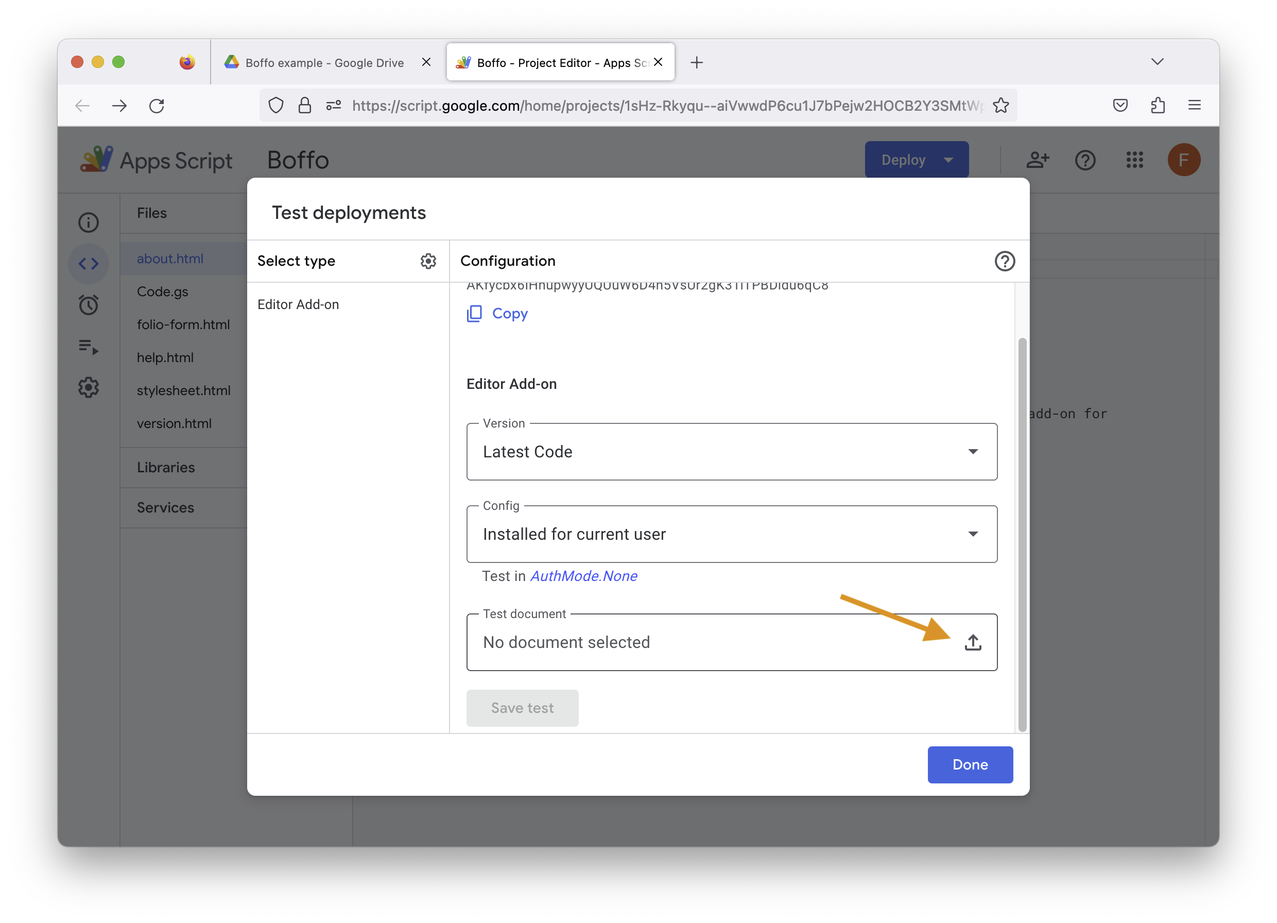
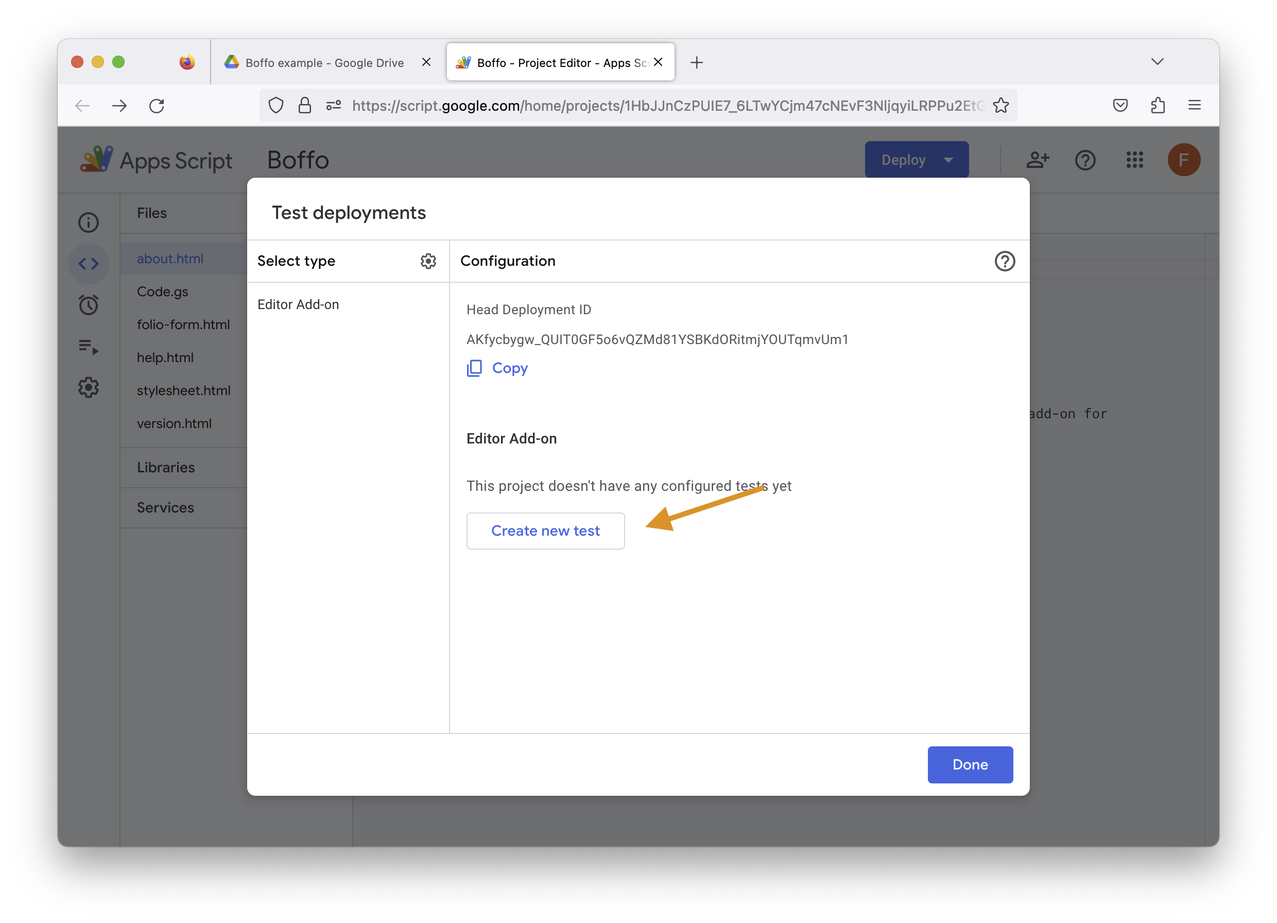
deploy: f5de7bc9aa3d3dc5b2ddb60697edf9038487bbd5

diff --git a/searchindex.js b/searchindex.js
@@ -1,1 +1,1 @@
-Search.setIndex({"docnames": ["colophon", "glossary", "index", "installation", "introduction", "usage"], "filenames": ["colophon.md", "glossary.md", "index.md", "installation.md", "introduction.md", "usage.md"], "titles": ["Colophon", "Glossary", "Boffo", "Installation", "Introduction", "Usage"], "terms": {"michael": 0, "hucka": 0, "wrote": 0, "boffo": [0, 1, 3, 4], "document": [0, 3], "us": [0, 1, 2, 5], "sphinx": 0, "gener": [0, 3, 5], "togeth": 0, "myst": 0, "flavor": 0, "markdown": 0, "The": [0, 1, 3, 5], "theme": 0, "i": [0, 1, 2, 3, 4, 5], "materi": [0, 1], "light": 0, "custom": 0, "googl": [0, 1, 2, 4, 5], "": [0, 3, 5], "atkinson": 0, "hyperleg": 0, "font": 0, "A": [0, 1], "github": [0, 1, 3], "action": 0, "take": [0, 1, 3], "care": [0, 3], "creat": [0, 2, 3, 4, 5], "format": 0, "version": [0, 3, 5], "host": 0, "io": 0, "http": 0, "caltechlibrari": 0, "output": 0, "can": [0, 1, 3, 5], "also": 0, "produc": 0, "manual": 0, "command": [0, 3, 5], "implement": 0, "makefil": 0, "locat": [0, 3], "doc": 0, "subdirectori": 0, "sourc": [0, 1, 2], "code": [0, 3], "repositori": [0, 3], "vector": 0, "artwork": 0, "start": [0, 3], "point": [0, 3], "logo": 0, "thi": [0, 1, 3, 5], "project": 0, "wa": [0, 3], "sunarto": 0, "hamizan": 0, "It": [0, 1, 2, 3, 4], "licens": 0, "under": [0, 3], "creativ": 0, "common": [0, 1], "attribut": 0, "3": 0, "0": 0, "unport": 0, "term": 1, "inveniordm": 1, "archiv": 1, "api": [1, 5], "stand": 1, "applic": [1, 3], "program": 1, "interfac": [1, 3], "an": [1, 2, 3, 4, 5], "through": 1, "which": [1, 3, 5], "interact": 1, "between": 1, "softwar": 1, "place": 1, "approach": 1, "system": [1, 3], "commun": 1, "each": 1, "other": [1, 3], "barcod": [1, 2, 4], "In": [1, 3], "context": 1, "uniqu": 1, "identifi": 1, "assign": 1, "item": [1, 2, 3, 4, 5], "folio": [1, 2, 4], "b": [1, 2, 4], "arc": [1, 2, 4], "o": [1, 2, 4], "de": [1, 2, 4], "f": [1, 2, 4], "rom": [1, 2, 4], "fo": [1, 2, 4], "lio": [1, 2, 4], "written": [1, 2, 4], "app": 1, "script": 1, "provid": 1, "function": [1, 5], "sheet": [1, 2, 3, 4, 5], "look": [1, 2, 3, 4], "up": [1, 2, 3, 4], "futur": 1, "Of": 1, "librari": [1, 2, 3, 4, 5], "open": [1, 3], "servic": [1, 5], "platform": 1, "languag": 1, "develop": [1, 3], "environ": 1, "make": [1, 3, 5], "possibl": [1, 3], "add": [1, 2, 3, 4, 5], "onlin": 1, "spreadsheet": [1, 2, 3, 4, 5], "refer": 1, "singl": 1, "physic": 1, "electron": 1, "object": 1, "circul": 1, "patron": 1, "could": 1, "book": 1, "journal": 1, "issu": [1, 2], "digit": 1, "tablet": 1, "so": [1, 3, 5], "sometim": 1, "short": 1, "record": [1, 2, 4], "databas": 1, "contain": 1, "inform": [1, 2, 4, 5], "need": [1, 5], "track": 1, "field": [1, 3, 5], "includ": [1, 5], "avail": [1, 3], "type": [1, 3], "lsp": 1, "manag": 1, "maintain": [1, 3], "pat": 1, "person": 1, "access": [1, 5], "token": [1, 2], "string": 1, "charact": 1, "authent": 1, "user": [1, 5], "when": 1, "network": [1, 5], "altern": 1, "via": 1, "account": [1, 5], "password": [1, 5], "combin": 1, "ar": [1, 3, 5], "both": 1, "caltech": [2, 3, 4, 5], "let": [2, 3, 4, 5], "you": [2, 3, 4, 5], "select": [2, 3, 4, 5], "retriev": [2, 4], "about": [2, 3, 4], "from": [2, 4, 5], "server": [2, 4], "new": [2, 3, 4, 5], "titl": [2, 3, 4, 5], "data": [2, 4, 5], "where": [2, 3, 4, 5], "ran": [2, 4, 5], "result": [2, 3, 4, 5], "lookup": [2, 4, 5], "some": [2, 3, 4, 5], "your": [2, 3, 4, 5], "menu": [2, 3, 4, 5], "darr": [2, 4], "same": [2, 4, 5], "instal": [2, 5], "marketplac": [2, 5], "directli": 2, "usag": 2, "reset": 2, "credenti": 2, "clear": 2, "get": [2, 3], "info": 2, "help": 2, "report": 2, "glossari": 2, "colophon": 2, "For": 3, "staff": [3, 5], "ons": [3, 5], "To": 3, "extens": [3, 5], "top": [3, 5], "click": 3, "submenu": [3, 5], "workspac": 3, "shown": [3, 5], "next": [3, 5], "button": 3, "intern": [3, 5], "chang": [3, 5], "show": [3, 5], "should": 3, "visibl": 3, "more": [3, 5], "detail": [3, 5], "blue": 3, "sever": [3, 5], "dialog": [3, 5], "ask": [3, 5], "permiss": 3, "accept": 3, "allow": 3, "close": 3, "note": [3, 5], "after": 3, "pop": 3, "ha": 3, "been": 3, "like": [3, 5], "state": 3, "fact": 3, "pleas": 3, "ignor": 3, "instruct": 3, "automat": [3, 5], "control": 3, "we": 3, "t": 3, "If": [3, 5], "abl": 3, "find": [3, 5], "instead": 3, "have": 3, "wai": 3, "follow": 3, "subsect": 3, "describ": 3, "two": 3, "method": 3, "process": 3, "doe": 3, "requir": 3, "line": [3, 5], "tool": 3, "experi": 3, "patienc": 3, "becaus": 3, "step": 3, "below": 3, "veri": [3, 5], "unintuit": 3, "option": 3, "recommend": 3, "saniti": 3, "folder": 3, "drive": 3, "put": 3, "purpos": 3, "assum": 3, "name": [3, 5], "exampl": 3, "go": 3, "public": 3, "less": 3, "what": 3, "screenshot": [3, 5], "right": 3, "over": 3, "contextu": 3, "end": 3, "usual": 3, "level": 3, "newli": 3, "move": 3, "destin": 3, "suggest": 3, "1": 3, "abov": 3, "navig": 3, "why": 3, "renam": 3, "someth": [3, 5], "annoi": 3, "just": 3, "doubl": 3, "deploi": 3, "page": 3, "test": 3, "deploy": 3, "pull": [3, 5], "down": [3, 5], "list": 3, "left": 3, "hand": 3, "sidebar": 3, "default": 3, "wrong": 3, "our": 3, "gear": 3, "icon": 3, "initi": 3, "check": 3, "mark": 3, "uncheck": 3, "disappear": 3, "second": [3, 5], "time": [3, 5], "now": 3, "editor": 3, "configur": 3, "With": 3, "arrow": 3, "3rd": 3, "8": 3, "insert": 3, "back": 3, "save": 3, "re": 3, "done": 3, "yet": 3, "circl": 3, "word": 3, "execut": 3, "becom": 3, "activ": 3, "previou": 3, "excit": 3, "tab": 3, "window": 3, "browser": 3, "menubar": 3, "here": 3, "final": 3, "And": 3, "took": 3, "onli": [3, 5], "20": 3, "easi": 3, "wasn": 3, "comfort": 3, "perhap": [3, 5], "want": [3, 5], "clone": 3, "local": 3, "directori": 3, "comput": 3, "alreadi": 3, "util": 3, "do": [3, 5], "edit": 3, "them": 3, "column": 3, "set": [3, 5], "id": [3, 5], "json": 3, "text": 3, "valu": [3, 5], "scriptid": 3, "5": 3, "1hio_6izyd4908ye4rry9wujyiuh0z3jtxy2bb_zbpy9ytpvc6bh": 3, "fv7": 3, "would": 3, "content": [3, 5], "run": 3, "empti": 3, "freshli": 3, "author": 3, "transfer": 3, "direct": 3, "well": 3, "similar": 3, "one": 3, "section": 3, "onc": 5, "present": 5, "itself": 5, "across": 5, "found": 5, "main": 5, "its": 5, "simpl": 5, "first": 5, "ve": 5, "request": 5, "login": 5, "order": 5, "store": 5, "proce": 5, "whose": 5, "highlight": 5, "On": 5, "subsequ": 5, "invoc": 5, "unless": 5, "happen": 5, "invalid": 5, "case": 5, "again": 5, "ever": 5, "bring": 5, "form": 5, "blank": 5, "all": 5, "who": 5, "url": 5, "tenant": 5, "prefil": 5, "correct": 5, "enter": 5, "d": 5, "deliber": 5, "unset": 5, "current": 5, "Will": 5, "remov": 5, "regener": 5, "out": 5, "most": 5, "part": 5, "number": 5, "box": 5, "last": 5, "framework": 5, "link": 5}, "objects": {}, "objtypes": {}, "objnames": {}, "titleterms": {"colophon": 0, "glossari": 1, "boffo": [2, 5], "section": 2, "instal": 3, "us": 3, "googl": 3, "marketplac": 3, "incorrect": 3, "post": 3, "notif": 3, "panel": 3, "directli": 3, "from": 3, "sourc": 3, "copi": 3, "app": 3, "script": 3, "project": 3, "clasp": 3, "push": 3, "file": 3, "ga": 3, "introduct": 4, "usag": 5, "look": 5, "up": 5, "barcod": 5, "reset": 5, "folio": 5, "credenti": 5, "clear": 5, "token": 5, "get": 5, "info": 5, "about": 5, "help": 5, "report": 5, "issu": 5}, "envversion": {"sphinx.domains.c": 2, "sphinx.domains.changeset": 1, "sphinx.domains.citation": 1, "sphinx.domains.cpp": 8, "sphinx.domains.index": 1, "sphinx.domains.javascript": 2, "sphinx.domains.math": 2, "sphinx.domains.python": 3, "sphinx.domains.rst": 2, "sphinx.domains.std": 2, "sphinx": 57}, "alltitles": {"Colophon": [[0, "colophon"]], "Glossary": [[1, "glossary"]], "Boffo": [[2, "boffo"]], "Sections": [[2, "sections"]], "Installation": [[3, "installation"]], "Using Google Marketplace": [[3, "using-google-marketplace"]], "Incorrect post-installation notification panel": [[3, "incorrect-post-installation-notification-panel"]], "Directly from source": [[3, "directly-from-source"]], "Copying the Google Apps Script project": [[3, "copying-the-google-apps-script-project"]], "Using clasp to push source files to a GAS project": [[3, "using-clasp-to-push-source-files-to-a-gas-project"]], "Introduction": [[4, "introduction"]], "Usage": [[5, "usage"]], "Look up barcodes": [[5, "look-up-barcodes"]], "Reset FOLIO credentials": [[5, "reset-folio-credentials"]], "Clear FOLIO token": [[5, "clear-folio-token"]], "Get info about Boffo": [[5, "get-info-about-boffo"]], "Get help and report issues": [[5, "get-help-and-report-issues"]]}, "indexentries": {"api": [[1, "term-API"]], "barcode": [[1, "term-Barcode"]], "boffo": [[1, "term-Boffo"]], "folio": [[1, "term-FOLIO"]], "google apps script": [[1, "term-Google-Apps-Script"]], "google sheet": [[1, "term-Google-Sheet"]], "item": [[1, "term-Item"]], "lsp": [[1, "term-LSP"]], "pat": [[1, "term-PAT"]]}})
+Search.setIndex({"docnames": ["colophon", "glossary", "index", "installation", "introduction", "usage"], "filenames": ["colophon.md", "glossary.md", "index.md", "installation.md", "introduction.md", "usage.md"], "titles": ["Colophon", "Glossary", "Boffo", "Installation", "Introduction", "Usage"], "terms": {"michael": 0, "hucka": 0, "wrote": 0, "boffo": [0, 1, 3, 4], "document": [0, 3], "us": [0, 1, 2, 5], "sphinx": 0, "gener": [0, 3, 5], "togeth": 0, "myst": 0, "flavor": 0, "markdown": 0, "The": [0, 1, 3, 5], "theme": 0, "i": [0, 1, 2, 3, 4, 5], "materi": [0, 1], "light": 0, "custom": 0, "googl": [0, 1, 2, 4, 5], "": [0, 3, 5], "atkinson": 0, "hyperleg": 0, "font": 0, "A": [0, 1], "github": [0, 1, 3], "action": 0, "take": [0, 1, 3], "care": [0, 3], "creat": [0, 2, 3, 4, 5], "format": 0, "version": [0, 3, 5], "host": 0, "io": 0, "http": 0, "caltechlibrari": 0, "output": 0, "can": [0, 1, 3, 5], "also": 0, "produc": 0, "manual": 0, "command": [0, 3, 5], "implement": 0, "makefil": 0, "locat": [0, 3], "doc": 0, "subdirectori": 0, "sourc": [0, 1, 2], "code": [0, 3], "repositori": [0, 3], "vector": 0, "artwork": 0, "start": [0, 3], "point": [0, 3], "logo": 0, "thi": [0, 1, 3, 5], "project": 0, "wa": [0, 3], "sunarto": 0, "hamizan": 0, "It": [0, 1, 2, 3, 4], "licens": 0, "under": [0, 3], "creativ": 0, "common": [0, 1], "attribut": 0, "3": 0, "0": 0, "unport": 0, "term": 1, "inveniordm": 1, "archiv": 1, "api": [1, 5], "stand": 1, "applic": [1, 3], "program": 1, "interfac": [1, 3], "an": [1, 2, 3, 4, 5], "through": 1, "which": [1, 3, 5], "interact": 1, "between": 1, "softwar": 1, "place": 1, "approach": [1, 3], "system": [1, 3], "commun": 1, "each": 1, "other": [1, 3], "barcod": [1, 2, 4], "In": [1, 3], "context": 1, "uniqu": 1, "identifi": 1, "assign": 1, "item": [1, 2, 3, 4, 5], "folio": [1, 2, 4], "b": [1, 2, 4], "arc": [1, 2, 4], "o": [1, 2, 4], "de": [1, 2, 4], "f": [1, 2, 4], "rom": [1, 2, 4], "fo": [1, 2, 4], "lio": [1, 2, 4], "written": [1, 2, 4], "app": 1, "script": 1, "provid": 1, "function": [1, 5], "sheet": [1, 2, 3, 4, 5], "look": [1, 2, 3, 4], "up": [1, 2, 3, 4], "futur": 1, "Of": 1, "librari": [1, 2, 3, 4, 5], "open": [1, 3], "servic": [1, 5], "platform": 1, "languag": 1, "develop": [1, 3], "environ": 1, "make": [1, 3, 5], "possibl": [1, 3], "add": [1, 2, 3, 4, 5], "onlin": 1, "spreadsheet": [1, 2, 3, 4, 5], "refer": 1, "singl": 1, "physic": 1, "electron": 1, "object": 1, "circul": 1, "patron": 1, "could": 1, "book": 1, "journal": 1, "issu": [1, 2], "digit": 1, "tablet": 1, "so": [1, 3, 5], "sometim": 1, "short": 1, "record": [1, 2, 4], "databas": 1, "contain": 1, "inform": [1, 2, 4, 5], "need": [1, 5], "track": 1, "field": [1, 3, 5], "includ": [1, 5], "avail": [1, 3], "type": [1, 3], "lsp": 1, "manag": 1, "maintain": [1, 3], "pat": 1, "person": 1, "access": [1, 5], "token": [1, 2], "string": 1, "charact": 1, "authent": 1, "user": [1, 5], "when": 1, "network": [1, 5], "altern": 1, "via": 1, "account": [1, 5], "password": [1, 5], "combin": 1, "ar": [1, 3, 5], "both": 1, "caltech": [2, 3, 4, 5], "let": [2, 3, 4, 5], "you": [2, 3, 4, 5], "select": [2, 3, 4, 5], "retriev": [2, 4], "about": [2, 3, 4], "from": [2, 4, 5], "server": [2, 4], "new": [2, 3, 4, 5], "titl": [2, 3, 4, 5], "data": [2, 4, 5], "where": [2, 3, 4, 5], "ran": [2, 4, 5], "result": [2, 3, 4, 5], "lookup": [2, 4, 5], "some": [2, 3, 4, 5], "your": [2, 3, 4, 5], "menu": [2, 3, 4, 5], "darr": [2, 4], "same": [2, 4, 5], "instal": [2, 5], "marketplac": [2, 5], "directli": 2, "usag": 2, "reset": 2, "credenti": 2, "clear": 2, "get": [2, 3], "info": 2, "help": 2, "report": 2, "glossari": 2, "colophon": 2, "For": 3, "staff": [3, 5], "ons": [3, 5], "To": 3, "extens": [3, 5], "top": [3, 5], "click": 3, "submenu": [3, 5], "workspac": 3, "shown": [3, 5], "next": [3, 5], "button": 3, "intern": [3, 5], "chang": [3, 5], "show": [3, 5], "should": 3, "visibl": 3, "more": [3, 5], "detail": [3, 5], "blue": 3, "sever": [3, 5], "dialog": [3, 5], "ask": [3, 5], "permiss": 3, "accept": 3, "allow": 3, "close": 3, "note": [3, 5], "after": 3, "ha": 3, "been": 3, "like": [3, 5], "state": 3, "fact": 3, "pleas": 3, "ignor": 3, "instruct": 3, "pop": 3, "automat": [3, 5], "control": 3, "we": 3, "t": 3, "If": [3, 5], "abl": 3, "find": [3, 5], "instead": 3, "have": 3, "wai": 3, "follow": 3, "subsect": 3, "describ": 3, "two": 3, "method": 3, "doe": 3, "requir": 3, "line": [3, 5], "tool": 3, "patienc": 3, "becaus": 3, "step": 3, "below": 3, "veri": [3, 5], "unintuit": 3, "option": 3, "recommend": 3, "saniti": 3, "folder": 3, "drive": 3, "put": 3, "purpos": 3, "assum": 3, "name": [3, 5], "exampl": 3, "go": 3, "public": 3, "less": 3, "what": 3, "screenshot": [3, 5], "right": 3, "over": 3, "boffi": 3, "contextu": 3, "end": 3, "usual": 3, "level": 3, "newli": 3, "move": 3, "destin": 3, "suggest": 3, "1": 3, "abov": 3, "navig": 3, "why": 3, "renam": 3, "someth": [3, 5], "annoi": 3, "just": 3, "cleverli": 3, "doubl": 3, "deploi": 3, "page": 3, "test": 3, "deploy": 3, "pull": [3, 5], "down": [3, 5], "list": 3, "left": 3, "hand": 3, "sidebar": 3, "default": 3, "wrong": 3, "our": 3, "gear": 3, "icon": 3, "initi": 3, "check": 3, "mark": 3, "uncheck": 3, "disappear": 3, "second": [3, 5], "time": [3, 5], "now": 3, "editor": 3, "configur": 3, "With": 3, "arrow": 3, "3rd": 3, "No": 3, "8": 3, "insert": 3, "back": 3, "save": 3, "re": 3, "done": 3, "yet": 3, "circl": 3, "word": 3, "execut": 3, "becom": 3, "activ": 3, "previou": 3, "excit": 3, "tab": 3, "window": 3, "browser": 3, "menubar": 3, "here": 3, "final": 3, "And": 3, "took": 3, "onli": [3, 5], "20": 3, "easi": 3, "wasn": 3, "comfort": 3, "perhap": [3, 5], "want": [3, 5], "process": 3, "clone": 3, "local": 3, "directori": 3, "comput": 3, "alreadi": 3, "util": 3, "do": [3, 5], "edit": 3, "them": 3, "column": 3, "set": [3, 5], "id": [3, 5], "json": 3, "text": 3, "valu": [3, 5], "scriptid": 3, "5": 3, "1hio_6izyd4908ye4rry9wujyiuh0z3jtxy2bb_zbpy9ytpvc6bh": 3, "fv7": 3, "would": 3, "content": [3, 5], "run": 3, "empti": 3, "freshli": 3, "author": 3, "transfer": 3, "direct": 3, "well": 3, "similar": 3, "one": 3, "section": 3, "onc": 5, "present": 5, "itself": 5, "across": 5, "found": 5, "main": 5, "its": 5, "simpl": 5, "first": 5, "ve": 5, "request": 5, "login": 5, "order": 5, "store": 5, "proce": 5, "whose": 5, "highlight": 5, "On": 5, "subsequ": 5, "invoc": 5, "unless": 5, "happen": 5, "invalid": 5, "case": 5, "again": 5, "ever": 5, "bring": 5, "form": 5, "blank": 5, "all": 5, "who": 5, "url": 5, "tenant": 5, "prefil": 5, "correct": 5, "enter": 5, "d": 5, "deliber": 5, "unset": 5, "current": 5, "Will": 5, "remov": 5, "regener": 5, "out": 5, "most": 5, "part": 5, "number": 5, "box": 5, "last": 5, "framework": 5, "link": 5}, "objects": {}, "objtypes": {}, "objnames": {}, "titleterms": {"colophon": 0, "glossari": 1, "boffo": [2, 5], "section": 2, "instal": 3, "us": 3, "googl": 3, "marketplac": 3, "incorrect": 3, "post": 3, "notif": 3, "panel": 3, "directli": 3, "from": 3, "sourc": 3, "copi": 3, "app": 3, "script": 3, "project": 3, "clasp": 3, "push": 3, "file": 3, "ga": 3, "introduct": 4, "usag": 5, "look": 5, "up": 5, "barcod": 5, "reset": 5, "folio": 5, "credenti": 5, "clear": 5, "token": 5, "get": 5, "info": 5, "about": 5, "help": 5, "report": 5, "issu": 5}, "envversion": {"sphinx.domains.c": 2, "sphinx.domains.changeset": 1, "sphinx.domains.citation": 1, "sphinx.domains.cpp": 8, "sphinx.domains.index": 1, "sphinx.domains.javascript": 2, "sphinx.domains.math": 2, "sphinx.domains.python": 3, "sphinx.domains.rst": 2, "sphinx.domains.std": 2, "sphinx": 57}, "alltitles": {"Colophon": [[0, "colophon"]], "Glossary": [[1, "glossary"]], "Boffo": [[2, "boffo"]], "Sections": [[2, "sections"]], "Installation": [[3, "installation"]], "Using Google Marketplace": [[3, "using-google-marketplace"]], "Incorrect post-installation notification panel": [[3, "incorrect-post-installation-notification-panel"]], "Directly from source": [[3, "directly-from-source"]], "Copying the Google Apps Script project": [[3, "copying-the-google-apps-script-project"]], "Using clasp to push source files to a GAS project": [[3, "using-clasp-to-push-source-files-to-a-gas-project"]], "Introduction": [[4, "introduction"]], "Usage": [[5, "usage"]], "Look up barcodes": [[5, "look-up-barcodes"]], "Reset FOLIO credentials": [[5, "reset-folio-credentials"]], "Clear FOLIO token": [[5, "clear-folio-token"]], "Get info about Boffo": [[5, "get-info-about-boffo"]], "Get help and report issues": [[5, "get-help-and-report-issues"]]}, "indexentries": {"api": [[1, "term-API"]], "barcode": [[1, "term-Barcode"]], "boffo": [[1, "term-Boffo"]], "folio": [[1, "term-FOLIO"]], "google apps script": [[1, "term-Google-Apps-Script"]], "google sheet": [[1, "term-Google-Sheet"]], "item": [[1, "term-Item"]], "lsp": [[1, "term-LSP"]], "pat": [[1, "term-PAT"]]}})

diff --git a/installation.html b/installation.html
@@ -328,11 +328,11 @@
 <p>Click on the <em>Install</em> button. Google will show you several dialogs asking for your permission to install Boffo. Accept and allow the installation, then close the Google Marketplace panel.</p>
 <section id="incorrect-post-installation-notification-panel">
 <h3 id="incorrect-post-installation-notification-panel">Incorrect post-installation notification panel<a class="headerlink" href="#incorrect-post-installation-notification-panel" title="Permalink to this heading">¶</a></h3>
-<p>Note that after you install Boffo as an add-on in a Google Sheet, Google will show you a pop-up titled “Boffo has been installed!” that looks like this:</p>
+<p>Note that after you install Boffo as an add-on in a Google Sheet, Google will show a dialog titled “Boffo has been installed!” that looks like this:</p>
 <figure>
 <img class="shadow" src="_static/media/google-screen-after-boffo-installation.png" width="800px"/>
 </figure>
-<p>This pop-up states that Boffo has been installed under a menu titled <em>Add-ons</em>, but <strong>this is incorrect</strong>. In fact, Google installs it in a menu titled <em>Extensions</em>. Please <strong>ignore the instructions to look for an <em>Add-ons</em> menu</strong>. This pop-up is automatically generated by Google’s system and not under the control of Boffo, and we can’t make changes to it.</p>
+<p>This dialog states that Boffo has been installed under a menu titled <em>Add-ons</em>, but <strong>that is incorrect</strong>. In fact, Google installs it in a menu titled <em>Extensions</em>. Please <strong>ignore the instructions to look for an <em>Add-ons</em> menu</strong>. This pop-up is automatically generated by Google’s system and not under the control of Boffo, and we can’t change it.</p>
 </section>
 </section>
 <section id="directly-from-source">
@@ -340,22 +340,22 @@
 <p>If you are not at Caltech, you will not be able find Boffo in the Google Marketplace for add-ons. Instead, you will have to install the code from the source files in some way. The following subsections describe two possible methods.</p>
 <section id="copying-the-google-apps-script-project">
 <h3 id="copying-the-google-apps-script-project">Copying the Google Apps Script project<a class="headerlink" href="#copying-the-google-apps-script-project" title="Permalink to this heading">¶</a></h3>
-<p>This process does not require the use of command-line tools or coding experience, but it does require some patience and care because some of the steps below are very unintuitive.</p>
+<p>This approach does not require the use of command-line tools, but it does require some patience and care because some of the steps below are very unintuitive.</p>
 <ol class="arabic simple">
-<li><p>(Optional, but recommended for your sanity.) Create a folder in your Google Drive where you will put the Boffo project files that will be created in the following steps. For the purposes of this documentation, assume that this folder is named <em>Boffo example</em>.</p></li>
+<li><p>(Optional, but recommended for your sanity.) Create a folder in your Google Drive where you will put the Boffo project files that will be created in the following steps. For the purposes of this documentation, let’s assume that this folder is named “Boffo example”.</p></li>
 <li><p>Go to the <a class="reference external" href="https://drive.google.com/drive/folders/1PJErJ2ggFqT5H7pQkYr0wrpnf6YorHc-?usp=share_link">public folder for Boffo in Google Drive</a>. It should look more or less like what is shown in the screenshot below.<p align="center"><a class="reference internal" href="_images/boffo-google-drive-folder.png"><img alt="_images/boffo-google-drive-folder.png" src="_images/boffo-google-drive-folder.png" style="width: 800px;"/></a></p></p></li>
-<li><p>Right-click over the Boffo project and select <em>Make a copy</em> from the contextual menu that pops up.<p align="center"><a class="reference internal" href="_images/google-drive-make-copy.jpg"><img alt="_images/google-drive-make-copy.jpg" src="_images/google-drive-make-copy.jpg" style="width: 800px;"/></a></p></p></li>
-<li><p>Go to the location where the copy ended up (usually the top level of your Google Drive) and look for the newly-created GAS project named <em>Copy of Boffo (public copy)</em>. Right-click on it, and select <em>Move to</em> from the contextual menu that pops-up.<p align="center"><a class="reference internal" href="_images/google-drive-move.png"><img alt="_images/google-drive-move.png" src="_images/google-drive-move.png" style="width: 800px;"/></a></p></p></li>
-<li><p>From the move dialog, select the destination (in this example, the folder named <em>Boffo example</em> suggested in step #1 above).<p align="center"><a class="reference internal" href="_images/google-drive-move-destination.png"><img alt="_images/google-drive-move-destination.png" src="_images/google-drive-move-destination.png" style="width: 800px;"/></a></p></p></li>
-<li><p>Navigate to the destination folder in your Google Drive.</p></li>
-<li><p>(Optional, but why not?) Rename the project file <em>Copy of Boffo (public copy)</em> to something less annoying, such as just <em>Boffo</em>.<p align="center"><a class="reference internal" href="_images/google-drive-rename.png"><img alt="_images/google-drive-rename.png" src="_images/google-drive-rename.png" style="width: 800px;"/></a></p></p></li>
-<li><p>Create a spreadsheet in the folder next to the <em>Boffo</em> apps script project. For the purposes of this documentation, assume this spreadsheet is named <em>Example spreadsheet</em>.<p align="center"><a class="reference internal" href="_images/google-drive-example-spreadsheet.png"><img alt="_images/google-drive-example-spreadsheet.png" src="_images/google-drive-example-spreadsheet.png" style="width: 800px;"/></a></p></p></li>
-<li><p>Double-click on the <em>Boffo</em> apps script project (not the spreadsheet!). It should look more or less like the screenshot below.<p align="center"><a class="reference internal" href="_images/gas-editor.png"><img alt="_images/gas-editor.png" src="_images/gas-editor.png" style="width: 800px;"/></a></p></p></li>
+<li><p>Right-click over the apps script project named “Boffy (public copy)” and select <em>Make a copy</em> from the contextual menu that pops up.<p align="center"><a class="reference internal" href="_images/google-drive-make-copy.jpg"><img alt="_images/google-drive-make-copy.jpg" src="_images/google-drive-make-copy.jpg" style="width: 800px;"/></a></p></p></li>
+<li><p>Go to the location where the copy ended up (usually the top level of your Google Drive) and look for the newly-created apps script project named “Copy of Boffo (public copy)”. Right-click on it, and select <em>Move to</em> from the contextual menu that pops-up.<p align="center"><a class="reference internal" href="_images/google-drive-move.png"><img alt="_images/google-drive-move.png" src="_images/google-drive-move.png" style="width: 800px;"/></a></p></p></li>
+<li><p>From the move dialog, select the destination (in this example, the folder named “Boffo example” suggested in step #1 above).<p align="center"><a class="reference internal" href="_images/google-drive-move-destination.png"><img alt="_images/google-drive-move-destination.png" src="_images/google-drive-move-destination.png" style="width: 800px;"/></a></p></p></li>
+<li><p>Navigate to the destination folder where you put it in your Google Drive.</p></li>
+<li><p>(Optional, but why not?) Rename the project file “Copy of Boffo (public copy)” to something less annoying, such as just “Boffo”.<p align="center"><a class="reference internal" href="_images/google-drive-rename.png"><img alt="_images/google-drive-rename.png" src="_images/google-drive-rename.png" style="width: 800px;"/></a></p></p></li>
+<li><p>Create a spreadsheet in the folder next to the “Boffo” apps script project. For the purposes of this documentation, assume this spreadsheet is cleverly named “Example spreadsheet”.<p align="center"><a class="reference internal" href="_images/google-drive-example-spreadsheet.png"><img alt="_images/google-drive-example-spreadsheet.png" src="_images/google-drive-example-spreadsheet.png" style="width: 800px;"/></a></p></p></li>
+<li><p>Double-click on the apps script project (not the spreadsheet!). It should look more or less like the screenshot below.<p align="center"><a class="reference internal" href="_images/gas-editor.png"><img alt="_images/gas-editor.png" src="_images/gas-editor.png" style="width: 800px;"/></a></p></p></li>
 <li><p>Click on the blue <em>Deploy</em> button at the top of the page, and select <em>Test deployments</em> from the pull-down menu.<p align="center"><a class="reference internal" href="_images/gas-editor-deployments.png"><img alt="_images/gas-editor-deployments.png" src="_images/gas-editor-deployments.png" style="width: 800px;"/></a></p></p></li>
-<li><p>In dialog that opens next, note the list in the left-hand sidebar shows “Google Workspace Add-on” as the default. This is the wrong deployment to use for our purposes.<p align="center"><a class="reference internal" href="_images/gas-editor-deployments-wrong-kind.png"><img alt="_images/gas-editor-deployments-wrong-kind.png" src="_images/gas-editor-deployments-wrong-kind.png" style="width: 800px;"/></a></p></p></li>
-<li><p>Changing the deployment will take two steps. Click the gear icon next to <em>Select type</em> and a pop-up menu will be shown. In this pop-up, you will initially find a check-mark next to “Google Workspace Add-on”. Select it to <em>uncheck</em> that item. The pop-up will disappear; click on the gear icon a second time, and now select “Editor Add-on”. You should end up with the configuration shown in the screenshot below.<p align="center"><a class="reference internal" href="_images/gas-editor-deployments-right-kind.png"><img alt="_images/gas-editor-deployments-right-kind.png" src="_images/gas-editor-deployments-right-kind.png" style="width: 800px;"/></a></p></p></li>
+<li><p>In dialog that opens next, note the list in the left-hand sidebar shows the item titled “Google Workspace Add-on” as the default. This is the wrong deployment to use for our purposes.<p align="center"><a class="reference internal" href="_images/gas-editor-deployments-wrong-kind.png"><img alt="_images/gas-editor-deployments-wrong-kind.png" src="_images/gas-editor-deployments-wrong-kind.png" style="width: 800px;"/></a></p></p></li>
+<li><p>Changing the deployment will take two steps. Click the gear icon next to <em>Select type</em> and a pop-up menu will be shown. In this pop-up, you will initially find a check-mark next to the item “Google Workspace Add-on”. Select it to <em>uncheck</em> that item. The pop-up will disappear; click on the gear icon a second time, and now select the item titled “Editor Add-on”. You should end up with the configuration shown in the screenshot below.<p align="center"><a class="reference internal" href="_images/gas-editor-deployments-right-kind.png"><img alt="_images/gas-editor-deployments-right-kind.png" src="_images/gas-editor-deployments-right-kind.png" style="width: 800px;"/></a></p></p></li>
 <li><p>With the configuration changed to “Editor Add-on”, click on the button <em>Create new test</em>,<p align="center"><a class="reference internal" href="_images/gas-editor-create-test.png"><img alt="_images/gas-editor-create-test.png" src="_images/gas-editor-create-test.png" style="width: 800px;"/></a></p></p></li>
-<li><p>In the dialog that pops up, click on the up arrow icon in the 3rd field (under “Test document”).<p align="center"><a class="reference internal" href="_images/gas-editor-create-test.png"><img alt="_images/gas-editor-create-test.png" src="_images/gas-editor-create-test.png" style="width: 800px;"/></a></p></p></li>
+<li><p>In the dialog that pops up, click on the up arrow icon in the 3rd field (where it initially shows “No document selected”).<p align="center"><a class="reference internal" href="_images/gas-editor-select-test-document.png"><img alt="_images/gas-editor-select-test-document.png" src="_images/gas-editor-select-test-document.png" style="width: 800px;"/></a></p></p></li>
 <li><p>In the Google Drive selection dialog that is shown next, select the spreadsheet created in step #8 above. and click the blue <em>Insert</em> button in the selection dialog.<p align="center"><a class="reference internal" href="_images/gas-editor-select-spreadsheet.png"><img alt="_images/gas-editor-select-spreadsheet.png" src="_images/gas-editor-select-spreadsheet.png" style="width: 800px;"/></a></p></p></li>
 <li><p>The selection dialog will close, and back in the test deployments dialog, click the blue <em>Save test</em> button.<p align="center"><a class="reference internal" href="_images/gas-editor-save-test.png"><img alt="_images/gas-editor-save-test.png" src="_images/gas-editor-save-test.png" style="width: 800px;"/></a></p></p></li>
 <li><p>We’re not done yet! The deployments dialog will change, and now will look like the screenshot below. Click the circle next on the line with the name of the spreadsheet you selected.<p align="center"><a class="reference internal" href="_images/gas-editor-click-radio-box.png"><img alt="_images/gas-editor-click-radio-box.png" src="_images/gas-editor-click-radio-box.png" style="width: 800px;"/></a></p></p></li>
